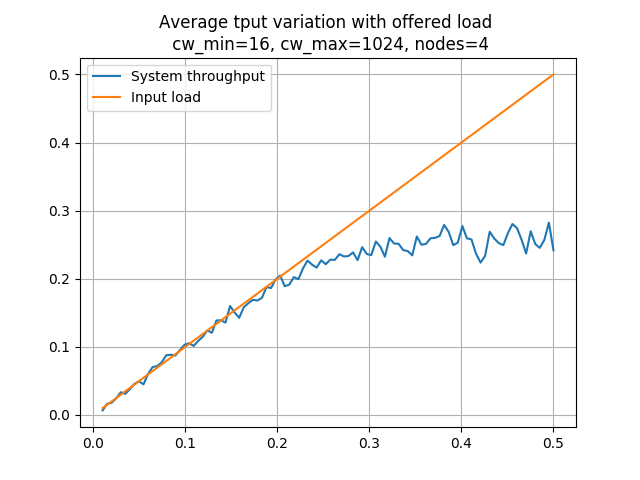
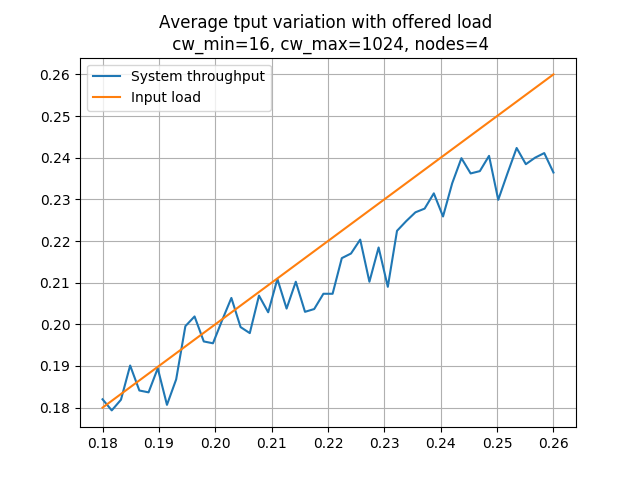
CHecked stability

diff --git a/aloha_own/stability_check.py b/aloha_own/stability_check.py
@@ -10,14 +10,14 @@ from scipy.optimize import curve_fit
 nodes=4
 num_packets=20
 t_start=100
-t_end=1000
+t_end=3000
 pkt_duration=1e-3
 cw_min=16
 cw_max=1024
 max_attempts=int(np.log2(cw_max/cw_min))
 occupancy=np.zeros((nodes, int(t_end)))
 #print([node.arrival_times for node in TestNetwork.nodes])
-rate_arr=np.linspace(0.01, 0.5, 100)
+rate_arr=np.linspace(0.18, 0.26, 50)
 average_queue_size=np.zeros((nodes, len(rate_arr)))
 average_tput=np.zeros_like(rate_arr)
 runs=3

diff --git a/aloha_own/s_aloha_improved.py b/aloha_own/s_aloha_improved.py
@@ -127,10 +127,10 @@ class Base:
 '''
 def main():
     rate=0.2
-    nodes=4
+    nodes=10
     num_packets=20
     t_start=100
-    t_end=1000
+    t_end=5000
     pkt_duration=1e-3
     cw_min=16
     cw_max=1024
